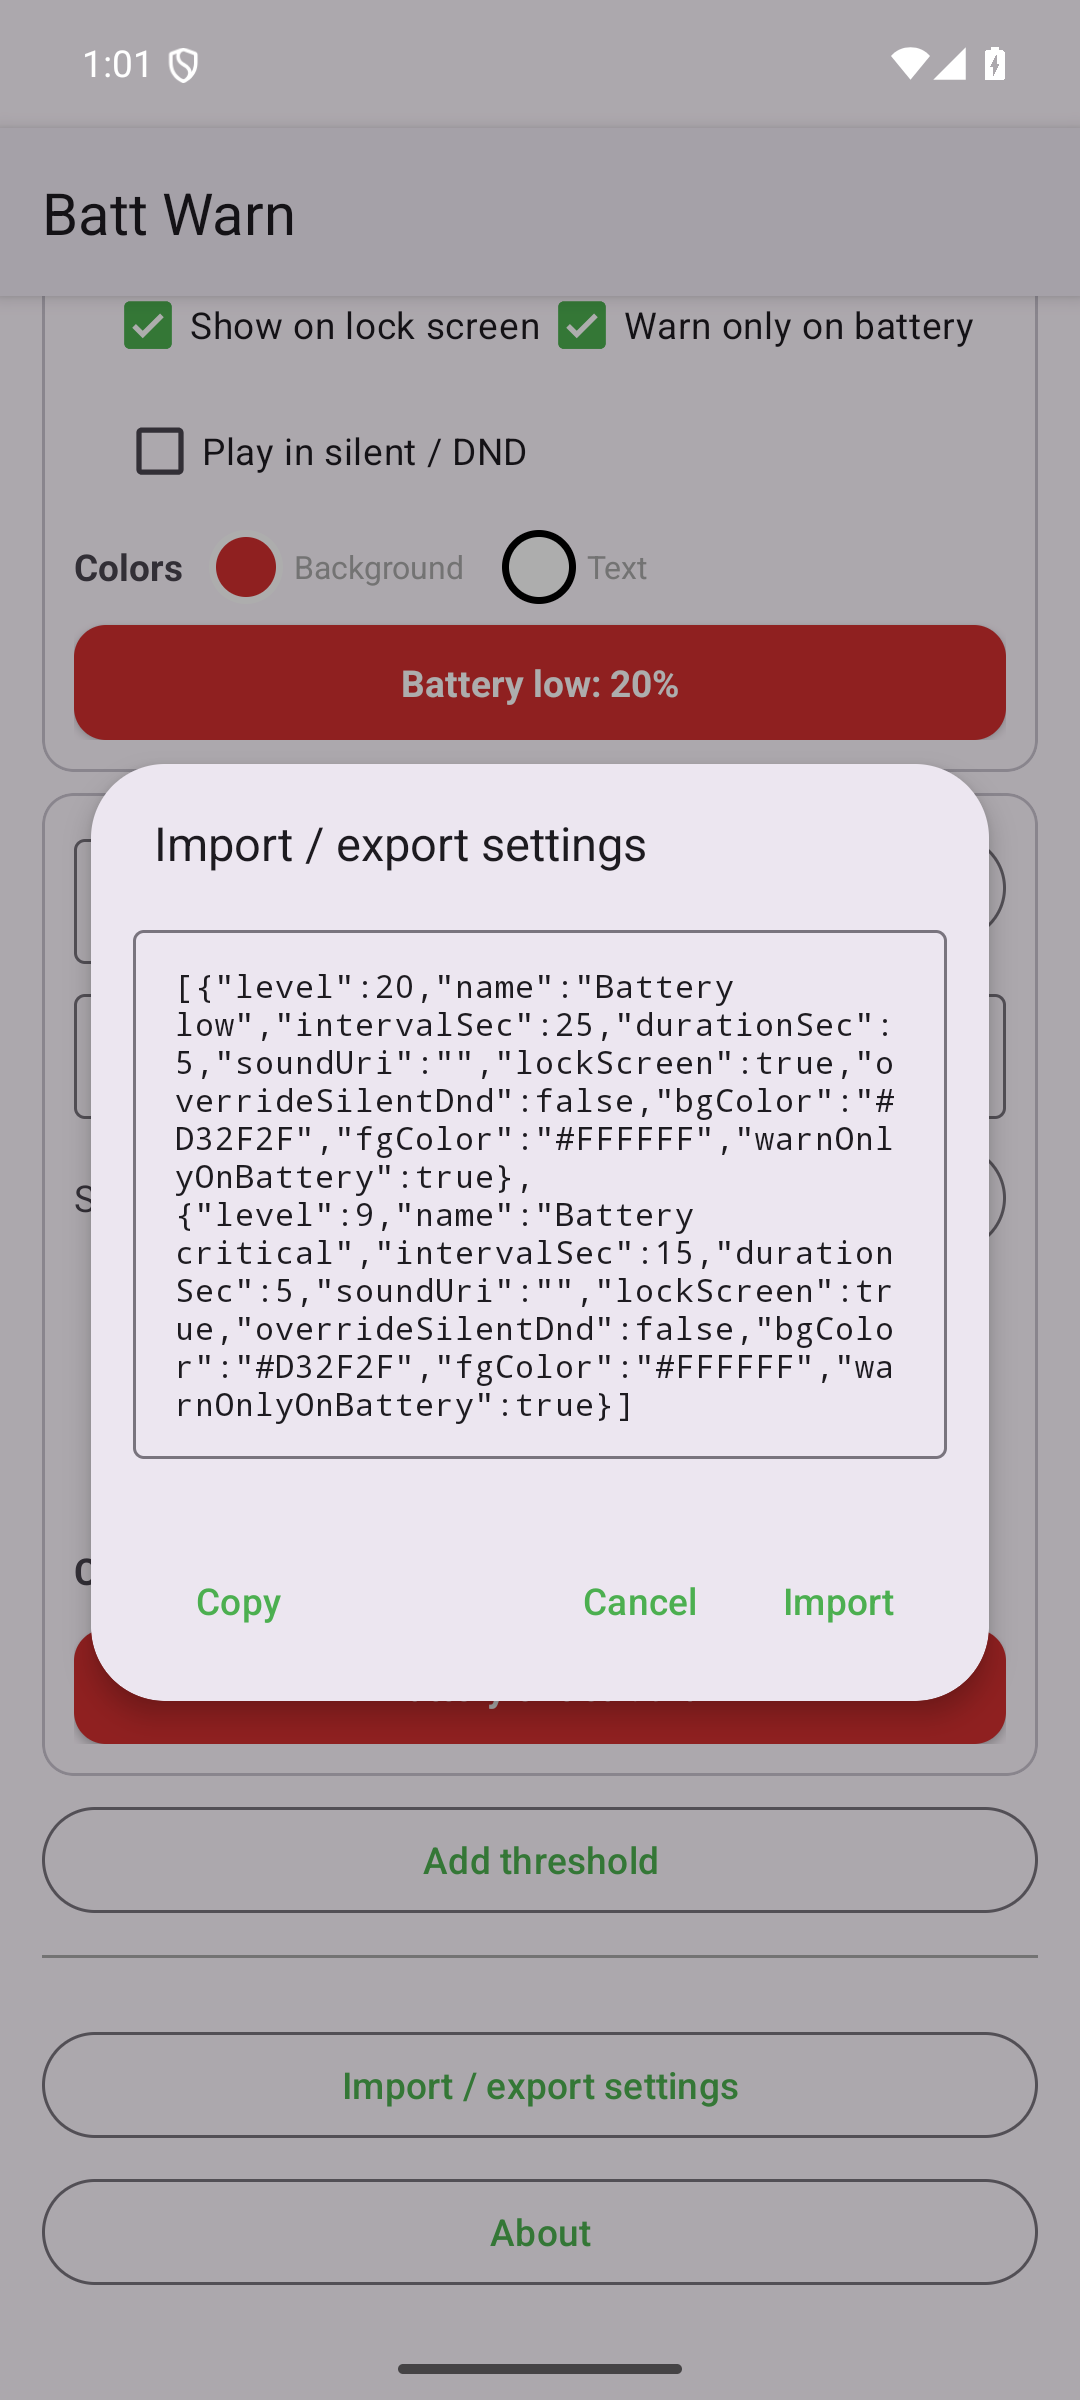
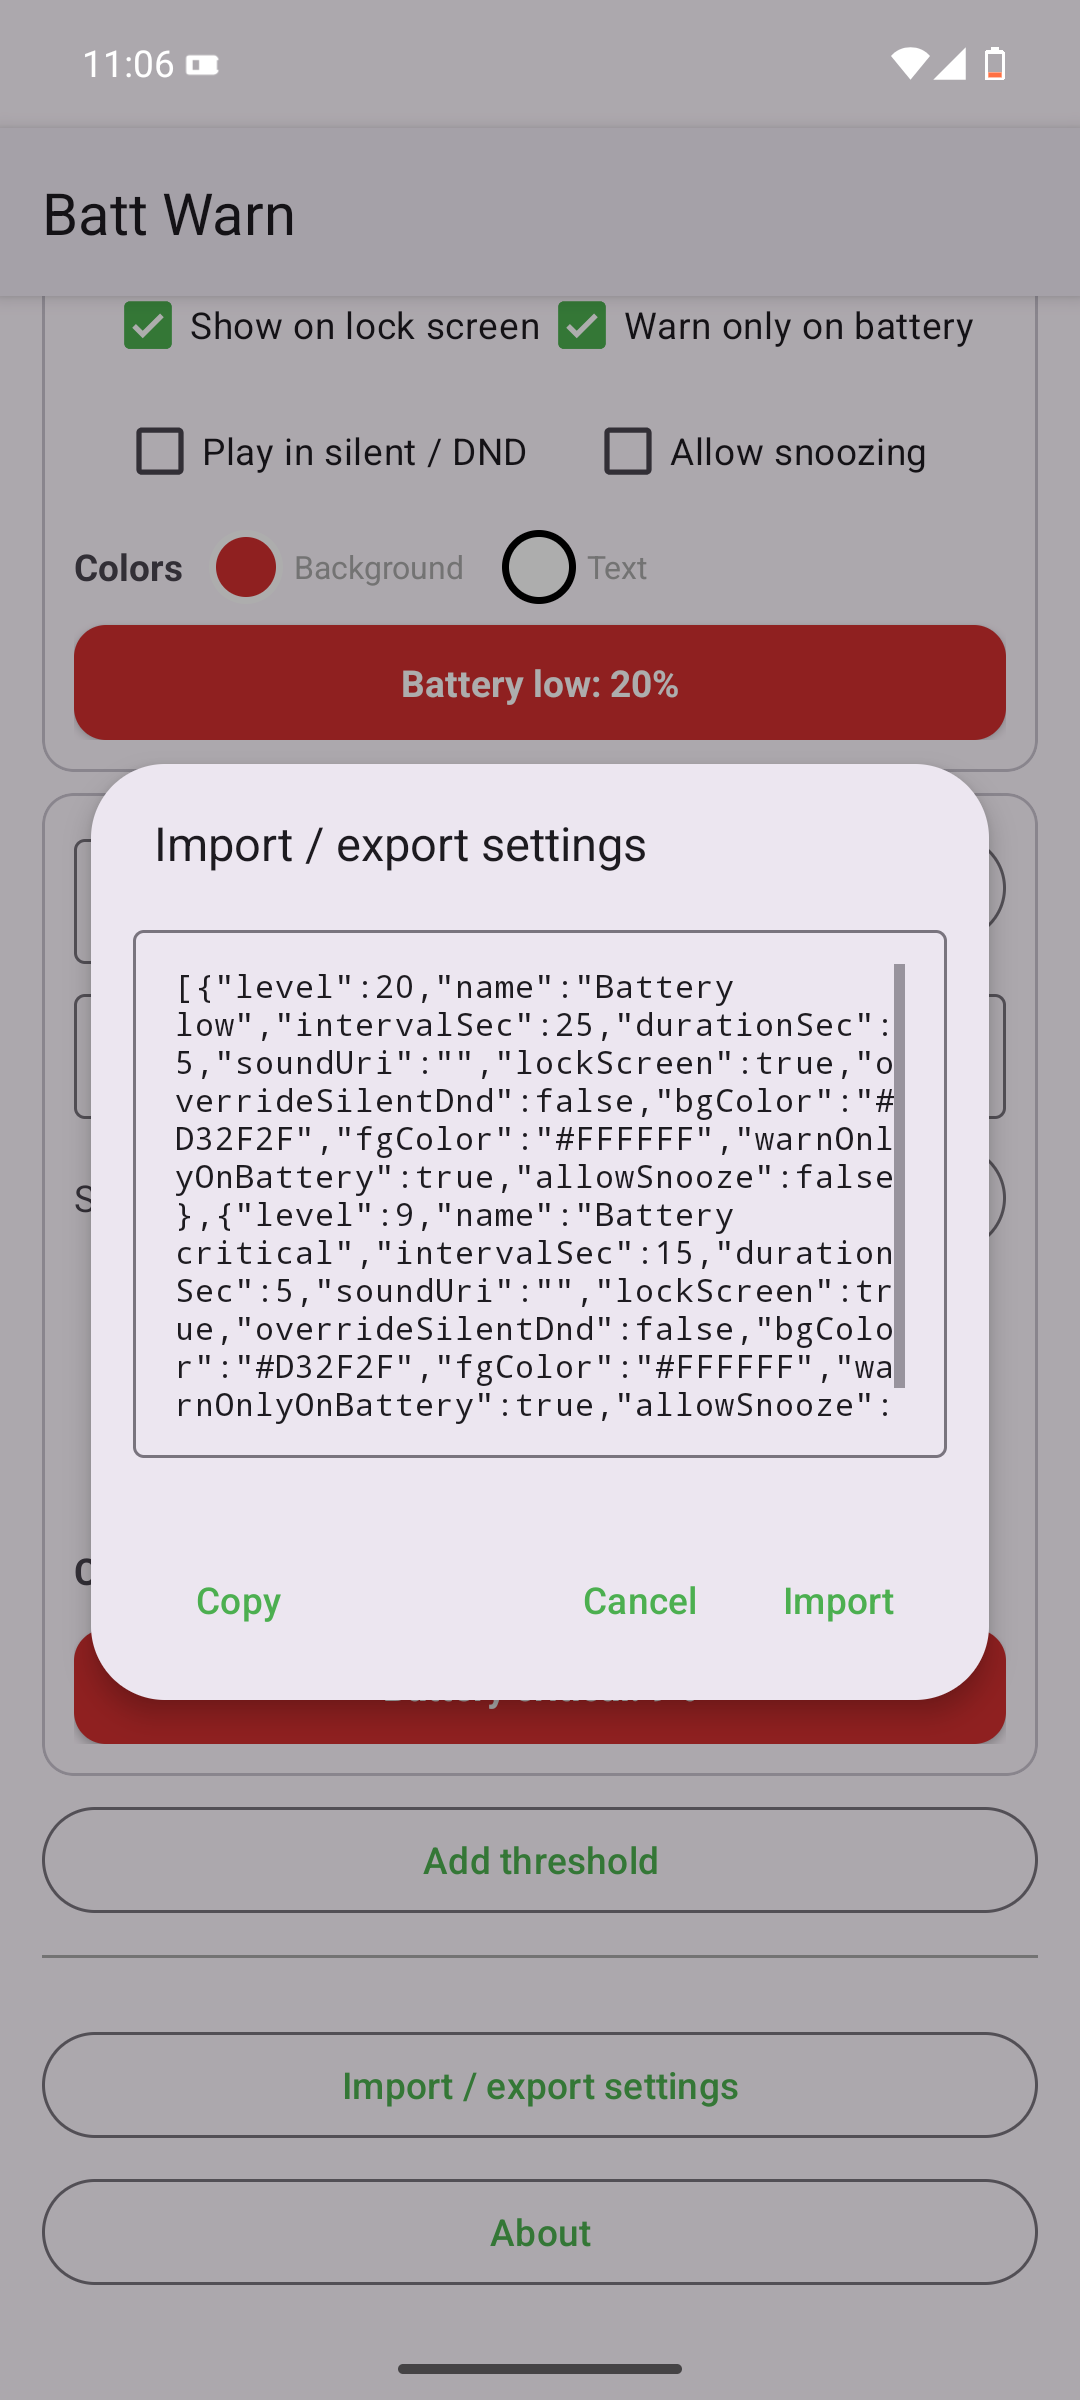
docs: document the per-threshold snooze and refresh screenshots
AGENTS.md (behavior, settings keys, coverage), README (feature list +
snooze paragraph), docs/behavior.md (new Snooze section),
docs/architecture.md (threshold JSON keys, baseline), and docs/testing.md
(test counts, SnoozeTest entry). Screenshots re-captured from the API 35
emulator; the threshold rows now show the "Allow snoozing" checkbox.

diff --git a/AGENTS.md b/AGENTS.md
@@ -124,6 +124,9 @@ on, blocked without), the lock-screen alert (default on; gate requires locked +
 screen already on + overlay permission, activity renders the message/colors and
 auto-dismisses), the charging suppression (the active tier's
 warn-only-on-battery flag pauses or continues alerts while plugged in), the
+per-threshold snooze (button hidden without the flag; snoozing freezes banners
+and flips the title/action, "Show alerts" resumes, crossing into the next tier
+releases it, the charging pause hides the button, UI round-trip), the
 threshold-list settings (fresh 20%/9% baseline, JSON
 round-trip, add/load rows), the main activity UI, the settings import/export
 dialog (show stored JSON, copy, valid import loads rows, invalid paste errors),
@@ -158,6 +161,7 @@ app/src/androidTest/kotlin/com/example/battwarn/
   ThresholdConfigTest.kt       # threshold list baseline, JSON round-trip, sorting, selection
   OverlayAlertTest.kt          # overlay permission + banner render/hide/dismiss callback
   OverrideSilentDndTest.kt     # per-threshold silent/DND override + UI round-trip
+  SnoozeTest.kt                # notification snooze button: freeze/resume, tier-crossing release, UI round-trip
   LockScreenAlertTest.kt       # lock-screen gate, activity render/colors/auto-dismiss, UI round-trip
   AboutActivityTest.kt         # in-app legal screen renders version, privacy, MIT, notices, Apache-2.0
 app/src/test/kotlin/com/example/battwarn/
@@ -186,7 +190,7 @@ docs/                          # architecture, behavior, testing, screenshots
   level is strictly below (the most severe applicable tier). Only that tier's
   settings drive the alert.
 - Each tier carries its own `interval_sec`, `duration_sec`, `sound_uri`,
-  `lock_screen`, `override_silent_dnd`, and `bg_color`/`fg_color`:
+  `lock_screen`, `override_silent_dnd`, `allow_snooze`, and `bg_color`/`fg_color`:
   - The banner shows for `duration_sec` in the tier's colors; the **next
     banner shows `interval_sec` after the previous banner closed** (auto-
     dismiss or tap) — the interval is a quiet pause between alerts. Without
@@ -199,6 +203,14 @@ docs/                          # architecture, behavior, testing, screenshots
     tier's warnings pause while the device is plugged in (AC/USB/wireless) and
     resume on unplug — the notification keeps showing the level with the
     monitoring title meanwhile.
+  - With the tier's `allow_snooze` flag (default off), the active alert's
+    notification carries a "Snooze" button: tapping it pauses that tier's
+    banners and sound (polling keeps running at the tier's interval) until the
+    active tier changes — crossing into the next (more severe) tier, rising
+    back out, or an unknown reading — or the user taps the button, which then
+    reads "Show alerts". The title becomes "<tier> (snoozed)". The snooze is
+    in-memory only (a service restart un-snoozes) and the button is hidden
+    while the charging pause holds (nothing pops up to silence).
   - Exits when the level rises back above the highest threshold or on
     `ACTION_BATTERY_OKAY`.
 - The alert is a floating banner (OverlayAlert) tinted with the tier's colors
@@ -269,17 +281,18 @@ docs/                          # architecture, behavior, testing, screenshots
 - Settings live in `AppSettings` (SharedPreferences `battwarn_settings`):
   the `thresholds` JSON list (each entry: `level`, `name`, `intervalSec`,
   `durationSec`, `soundUri`, `lockScreen`, `overrideSilentDnd`, `bgColor`,
-  `fgColor`, `warnOnlyOnBattery`). The fresh baseline is a 20% "Battery
-  low" tier and a 9% "Battery critical" tier, both silent, lock-screen on,
-  warn-only-on-battery on, red background/white text. Legacy single keys are
-  ignored (no migration).
+  `fgColor`, `warnOnlyOnBattery`, `allowSnooze`). The fresh baseline is a 20%
+  "Battery low" tier and a 9% "Battery critical" tier, both silent, lock-screen
+  on, warn-only-on-battery on, snoozing off, red background/white text. Legacy
+  single keys are ignored (no migration).
 - Each threshold row (name field first, then level/interval/duration):
   level (0-100, unique), optional name (shown before the percentage and as
   the notification title; blank falls back to "Battery low"), interval/
   duration ≥ 1s with no upper cap, a picked tone (empty = silent; per-row
   Remove sound button), a "Show on lock screen" checkbox, a "Warn only on
-  battery" checkbox, a "Play in silent / DND" checkbox (all three wrap onto
-  as many lines as needed), and a color popup with preset background/text
+  battery" checkbox, a "Play in silent / DND" checkbox, an "Allow snoozing"
+  checkbox (all four wrap onto as many lines as needed), and a color popup with
+  preset background/text
   swatches shown as two side-by-side preview circles next to the sample
   banner. Save validates, stores sorted by level descending, reloads the
   rows in that sorted order, and restarts the running service so new values

diff --git a/README.md b/README.md
@@ -16,8 +16,9 @@ alerts before the battery gets too low.
 - Event-driven battery monitoring with no idle polling.
 - User-configurable list of thresholds; each threshold has its own level, name,
   sound, quiet interval, banner duration, lock-screen display, silent/DND
-  override, background/text colors, and a per-threshold **Warn only on
-  battery** mode that pauses alerts while charging.
+  override, background/text colors, a per-threshold **Warn only on
+  battery** mode that pauses alerts while charging, and a per-threshold
+  **Allow snoozing** option that adds a Snooze button to the alert.
 - Every threshold can play a user-picked notification sound.
 - Floating bottom banner when “Display over other apps” is enabled.
 - Full-screen lock-screen warning (default on) while the display is already on.
@@ -104,8 +105,9 @@ severe applicable tier. With thresholds at 20% and 9%, for example: at 15% the
 20% tier applies, at 8% the 9% tier applies, and at or above 20% the service
 stays idle. A threshold can carry an optional name (shown before the percentage
 and as the notification title), a picked sound, its own quiet interval and
-banner duration, a lock-screen toggle, a silent/DND override, and its own
-background/text colors for the banner and the lock-screen alert.
+banner duration, a lock-screen toggle, a silent/DND override, a **Snooze**
+opt-in, and its own background/text colors for the banner and the lock-screen
+alert.
 
 The interval is a quiet pause measured **after** the previous banner closes,
 whether it auto-dismissed or was tapped. If the overlay permission is absent,
@@ -124,6 +126,12 @@ The **active** threshold's **Warn only on battery** flag decides whether
 warnings pause while charging, so each tier can warn (or stay silent) while
 plugged in. The foreground notification continues to show the current level
 while charging.
+
+With **Allow snoozing** enabled for a threshold (default off), the active
+alert's notification gets a **Snooze** button. Tapping it silences that
+tier's banners and sound until the level crosses into the next threshold
+(or back out of it), where alerts start fresh; the button then reads
+**Show alerts** to resume without waiting.
 
 See [docs/behavior.md](docs/behavior.md) and [docs/architecture.md](docs/architecture.md)
 for details.
@@ -156,7 +164,7 @@ battery-restricted.
 - Target/compile SDK: 35
 - Gradle: 8.14.4
 - JDK: 17
-- Instrumented tests: 67 (plus 12 JVM unit tests)
+- Instrumented tests: 73 (plus 13 JVM unit tests)
 
 ## Documentation
 

diff --git a/docs/behavior.md b/docs/behavior.md
@@ -14,6 +14,8 @@ alerts below its level and carries its own:
   keyguard.
 - **Play in silent / DND** — whether this tier's sound overrides the silent
   ringer and typical Do Not Disturb.
+- **Allow snoozing** — whether this tier's active alert offers a Snooze
+  button on the notification (see Snooze below).
 - **Background / text colors** — the banner and lock-screen alert surface.
 
 ## Tier selection
@@ -55,6 +57,24 @@ warning while charging — for example, a 60% tier with the flag off warns from
 50% while charging. During the pause the service keeps a slow self-armed
 re-check running (15 minutes), so even a lost unplug broadcast resumes the
 alerts instead of ending them.
+
+## Snooze
+
+Each threshold carries its own **Allow snoozing** flag (default off). While
+such a tier is the active alert, its notification shows a **Snooze** button.
+Tapping it pauses that tier's banners and sound: the notification title
+becomes "<tier name> (snoozed)", the button flips to **Show alerts**, and the
+monitor keeps polling at the tier's interval so crossings are still noticed —
+only the alert surfaces go quiet.
+
+The snooze belongs to the tier that was active when it was tapped and is
+released automatically when the active tier changes: dropping below the next
+(more severe) threshold, rising back out of the snoozed tier, or an unknown
+battery reading all start alerts fresh — a tier that becomes active later is
+never pre-muted. Tapping **Show alerts** lifts the snooze immediately,
+resuming banners on the next cycle. The button is hidden while the charging
+pause holds (nothing is popping up to silence), and the snooze is in-memory
+only: a service restart un-snoozes.
 
 ## Alert sound
 

diff --git a/docs/testing.md b/docs/testing.md
@@ -65,7 +65,7 @@ simulation and prints a summary; the exit status is non-zero on any FAIL.
 
 ## Test coverage
 
-The emulator suite currently contains 67 tests across these classes:
+The emulator suite currently contains 73 tests across these classes:
 
 - `AboutActivityTest` — in-app legal screen renders the version, privacy
   statement, MIT license, third-party notices, and the full Apache-2.0 text.
@@ -101,6 +101,10 @@ The emulator suite currently contains 67 tests across these classes:
 - `ServiceSmokeTest` — foreground lifecycle and notification; the notification's
   content intent opens MainActivity (sent in the background with the
   SYSTEM_ALERT_WINDOW appop granted, the exemption a real tap also relies on).
+- `SnoozeTest` — per-threshold snooze: button present only with the flag and
+  not while charging-suppressed; tapping "Snooze" freezes banners and flips
+  the title/action; "Show alerts" resumes; crossing into the next tier
+  releases the snooze; the checkbox round-trips through save and reload.
 - `ThresholdConfigTest` — fresh baseline, JSON persistence round-trip, sorting,
   selection from the stored list.
 - `ThresholdSelectionTest` — two-threshold end-to-end title flips and the pure

diff --git a/docs/architecture.md b/docs/architecture.md
@@ -114,12 +114,13 @@ Settings are stored in `battwarn_settings`:
 
 | Key | Default | Meaning |
 | --- | ---: | --- |
-| `thresholds` | 20%/9% baseline | JSON list of user thresholds; each has `level`, `name`, `intervalSec`, `durationSec`, `soundUri`, `lockScreen`, `overrideSilentDnd`, `bgColor`, `fgColor`, `warnOnlyOnBattery` |
+| `thresholds` | 20%/9% baseline | JSON list of user thresholds; each has `level`, `name`, `intervalSec`, `durationSec`, `soundUri`, `lockScreen`, `overrideSilentDnd`, `bgColor`, `fgColor`, `warnOnlyOnBattery`, `allowSnooze` |
 | `monitoringEnabled` | `false` | Persisted Start/Stop intent; honored by the boot receiver and the liveness watchdog |
 
 The fresh-install baseline is a 20% "Battery low" tier and a 9% "Battery
 critical" tier, both silent, with lock-screen display on, warn-only-on-battery
-on, and the default red background/white text. Legacy single-key settings are
+on, snoozing off, and the default red background/white text. Legacy single-key
+settings are
 ignored (no migration); when the stored list is empty the baseline is returned.
 
 Intervals and durations accept values of one second or greater with no upper
